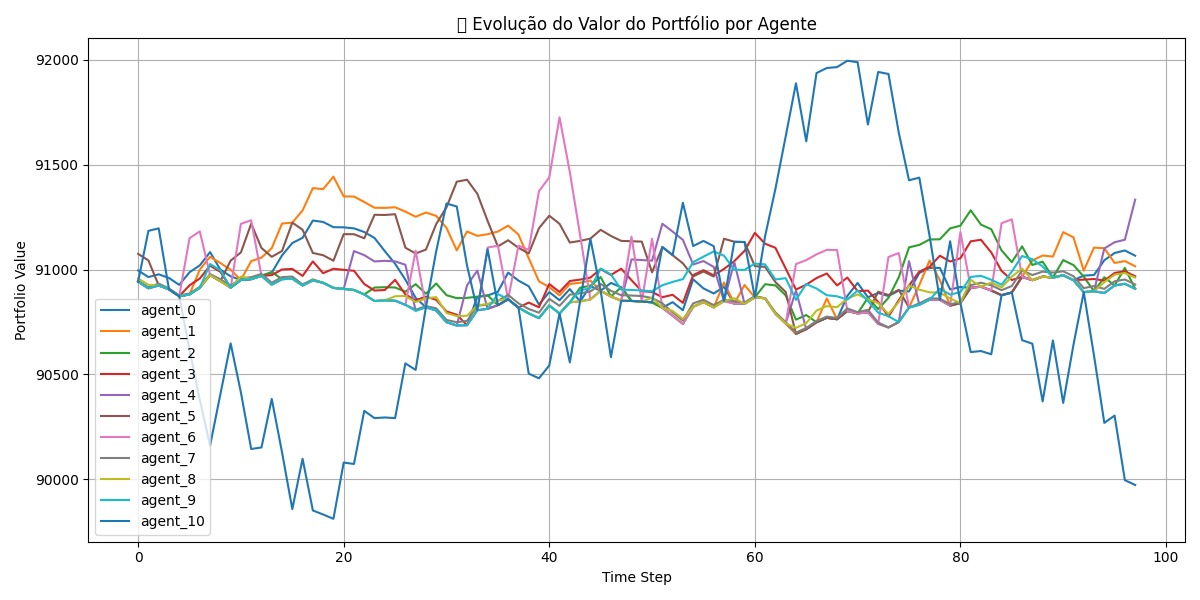
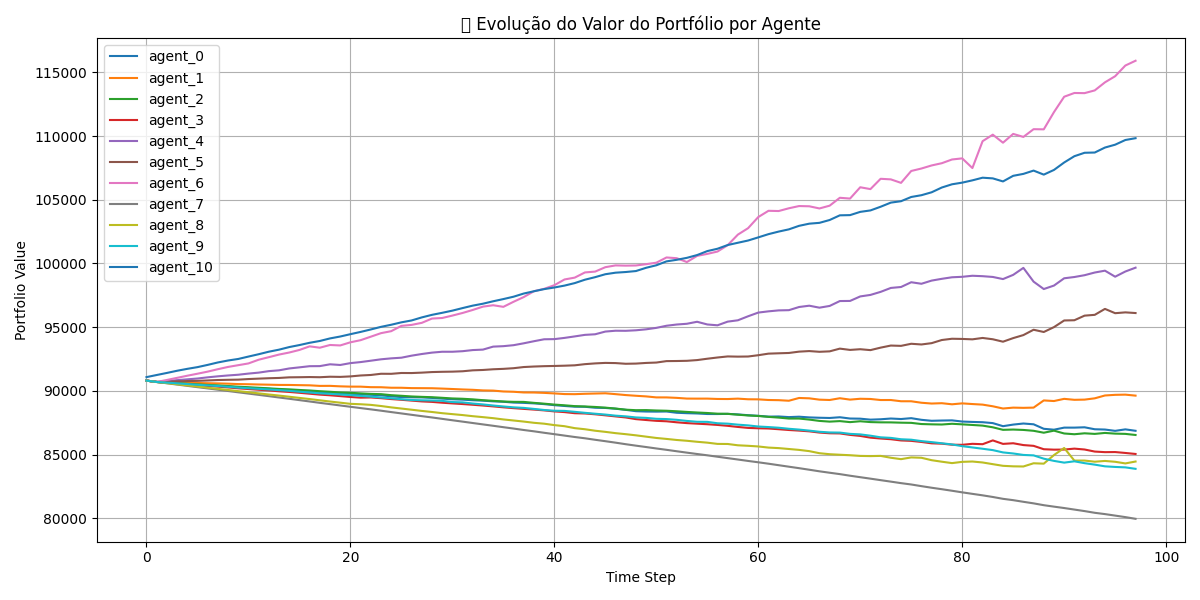
reward cooperativa :)

diff --git a/env_trading.py b/env_trading.py
@@ -67,7 +67,7 @@ class MultiAgentTradingEnv(MultiAgentEnv):
     def _reset_env_vars(self):
         self.current_step = 0
         self.cash = self.initial_cash
-        self.positions = np.random.randint(0, 2, size=self.num_assets)  # -1, 0 ou 1
+        self.positions = np.zeros(self.num_assets, dtype=np.int32)  # todos começam com 0
         self.cost_basis = np.zeros(self.num_assets)
         self.pnl = np.zeros(self.num_assets)
         self.settlement_queue = [[] for _ in range(self.num_assets)]
@@ -183,44 +183,25 @@ class MultiAgentTradingEnv(MultiAgentEnv):
             self.current_step >= len(self.price_df) - 1 or self.cash < 0
         )
 
-        # Recompensas
-        # Recompensas
-        rewards = {}
-        prices = self.price_df.iloc[self.current_step].values  # preços do timestep atual
+        # ==== Team reward ====
+        team_current_value = 0.0
+        prev_value = sum(self.last_values)
+        team_current_value = sum([
+            self.cash / self.num_assets + self.positions[i] * prices[i]
+            for i in range(self.num_assets)
+        ])
+
+        if prev_value > 0 and team_current_value > 0:
+            team_reward = np.log(team_current_value / prev_value)
+        else:
+            team_reward = -1.0  # ou 0.0, penalização segura
 
         for i, agent_id in enumerate(self.agent_ids):
-            # Valor total atual do agente (cash proporcional + posição * preço)
-            current_value = self.cash / self.num_assets + self.positions[i] * prices[i]
-            normalized_diff = (current_value - self.last_values[i]) / self.initial_cash
-            reward = normalized_diff * 1000  # Fator de escala ajustável (ex: 10, 5, etc)
-            self.last_values[i] = current_value
-
-            diff_value = reward
-            self.last_values[i] = current_value  # atualiza valor para próxima iteração
-
-
-            # Penalidade para posições longas em futuros
-            if self.asset_types[i] == 'future':
-                reward -= self.future_discount * max(self.positions[i], 0)
-            
-            # Penaliza ação repetida (inércia)
-            if hasattr(self, "last_actions") and action == self.last_actions[i]:
-                reward -= 0.005
-
-            # Atualiza última ação
+            action = actions.get(agent_id, 0)
+            if action == self.last_actions[i]:
+                team_reward -= 0.0005  # penalidade leve por repetir ação
             self.last_actions[i] = action
-
-            rewards[agent_id] = reward
-
-        # Bônus/punição terminal por desempenho individual
-        alpha = 0.001
-        beta = 0.005
-        if episode_ended:
-            for i, agent_id in enumerate(self.agent_ids):
-                if diff_value > 0:
-                    rewards[agent_id] += alpha * diff_value
-                else:
-                    rewards[agent_id] -= beta * abs(diff_value)
+        rewards = {agent_id: team_reward for agent_id in self.agent_ids}
 
 
         obs = self._get_obs()

diff --git a/train_impala.py b/train_impala.py
@@ -89,22 +89,22 @@ config = config.framework("torch")
 # Recursos
 config = config.resources(
     num_gpus=1,
-    num_cpus_per_worker=1
+    num_cpus_per_worker=2.5
 )
 
 # Rollouts
 config = config.rollouts(
     num_rollout_workers=6,
-    rollout_fragment_length=24,
-    num_envs_per_worker=2,
+    rollout_fragment_length=36,
+    num_envs_per_worker=1,
 )
 
 # Treinamento
 config = config.training(
     lr=3e-4,
-    train_batch_size=1280,
+    train_batch_size=1008,
     vf_loss_coeff=0.5,
-    entropy_coeff=0.01,
+    entropy_coeff=0.02,
 )
 
 # Multi-agente
@@ -163,7 +163,7 @@ print(f"🏁 Melhor checkpoint salvo em: {best_checkpoint}")
 # ✅ 10. Salva DataFrame como CSV
 df.to_csv("./results/impala_training_metrics.csv", index=False)
 
-# ✅ 11. Append do melhor checkpoint em JSON
+# ✅ 11. Append do melhor checkpoint em JSON (usando path string)
 checkpoint_log_path = Path("./results/best_checkpoints.json")
 
 # Carrega a lista existente (se houver)
@@ -173,10 +173,36 @@ if checkpoint_log_path.exists():
 else:
     checkpoint_list = []
 
-# Adiciona o novo checkpoint, evitando duplicatas
-if best_checkpoint not in checkpoint_list:
-    checkpoint_list.append(best_checkpoint)
+# Extrai o caminho do checkpoint
+checkpoint_path_str = str(best_checkpoint.path)
 
-# Salva novamente
+# Adiciona o novo caminho, evitando duplicatas
+if checkpoint_path_str not in checkpoint_list:
+    checkpoint_list.append(checkpoint_path_str)
+
+# Salva novamente como JSON
 with open(checkpoint_log_path, "w") as f:
     json.dump(checkpoint_list, f, indent=2)
+
+
+# ✅ 12. Entropia da política (shared_policy)
+import matplotlib.pyplot as plt
+
+entropy_col = "info/learner/shared_policy/learner_stats/entropy"
+
+if entropy_col in df.columns:
+    print("\n📈 Últimos valores de entropia da política compartilhada:")
+    print(df[["training_iteration", entropy_col]].tail())
+
+    # Plota gráfico da entropia ao longo do tempo
+    plt.figure(figsize=(8, 4))
+    plt.plot(df["training_iteration"], df[entropy_col])
+    plt.title("Entropia da política compartilhada durante o treinamento")
+    plt.xlabel("Iteração")
+    plt.ylabel("Entropia")
+    plt.grid(True)
+    plt.tight_layout()
+    plt.savefig("./results/policy_entropy_plot.png")  # salva como imagem
+    plt.show()
+else:
+    print("🚫 Coluna de entropia da política compartilhada não encontrada.")

diff --git a/evaluate.py b/evaluate.py
@@ -14,7 +14,7 @@ from model_architecture import SharedLSTMModel
 from utils import policy_mapping_fn
 
 # === 1. Configurações ===
-checkpoint_path = "results/impala_trading_experiment/IMPALA_MultiAgentTradingEnv-v0_d3720_00000_0_2025-06-03_12-31-32/checkpoint_000003"
+checkpoint_path = "results/impala_trading_experiment/IMPALA_MultiAgentTradingEnv-v0_702a1_00000_0_2025-06-04_11-44-37/checkpoint_000003"
 price_path = "data/processed/raw_prices.csv"
 return_path = "data/processed/returns_log.csv"
 asset_types = ["equity"] * 10 + ["future"]
